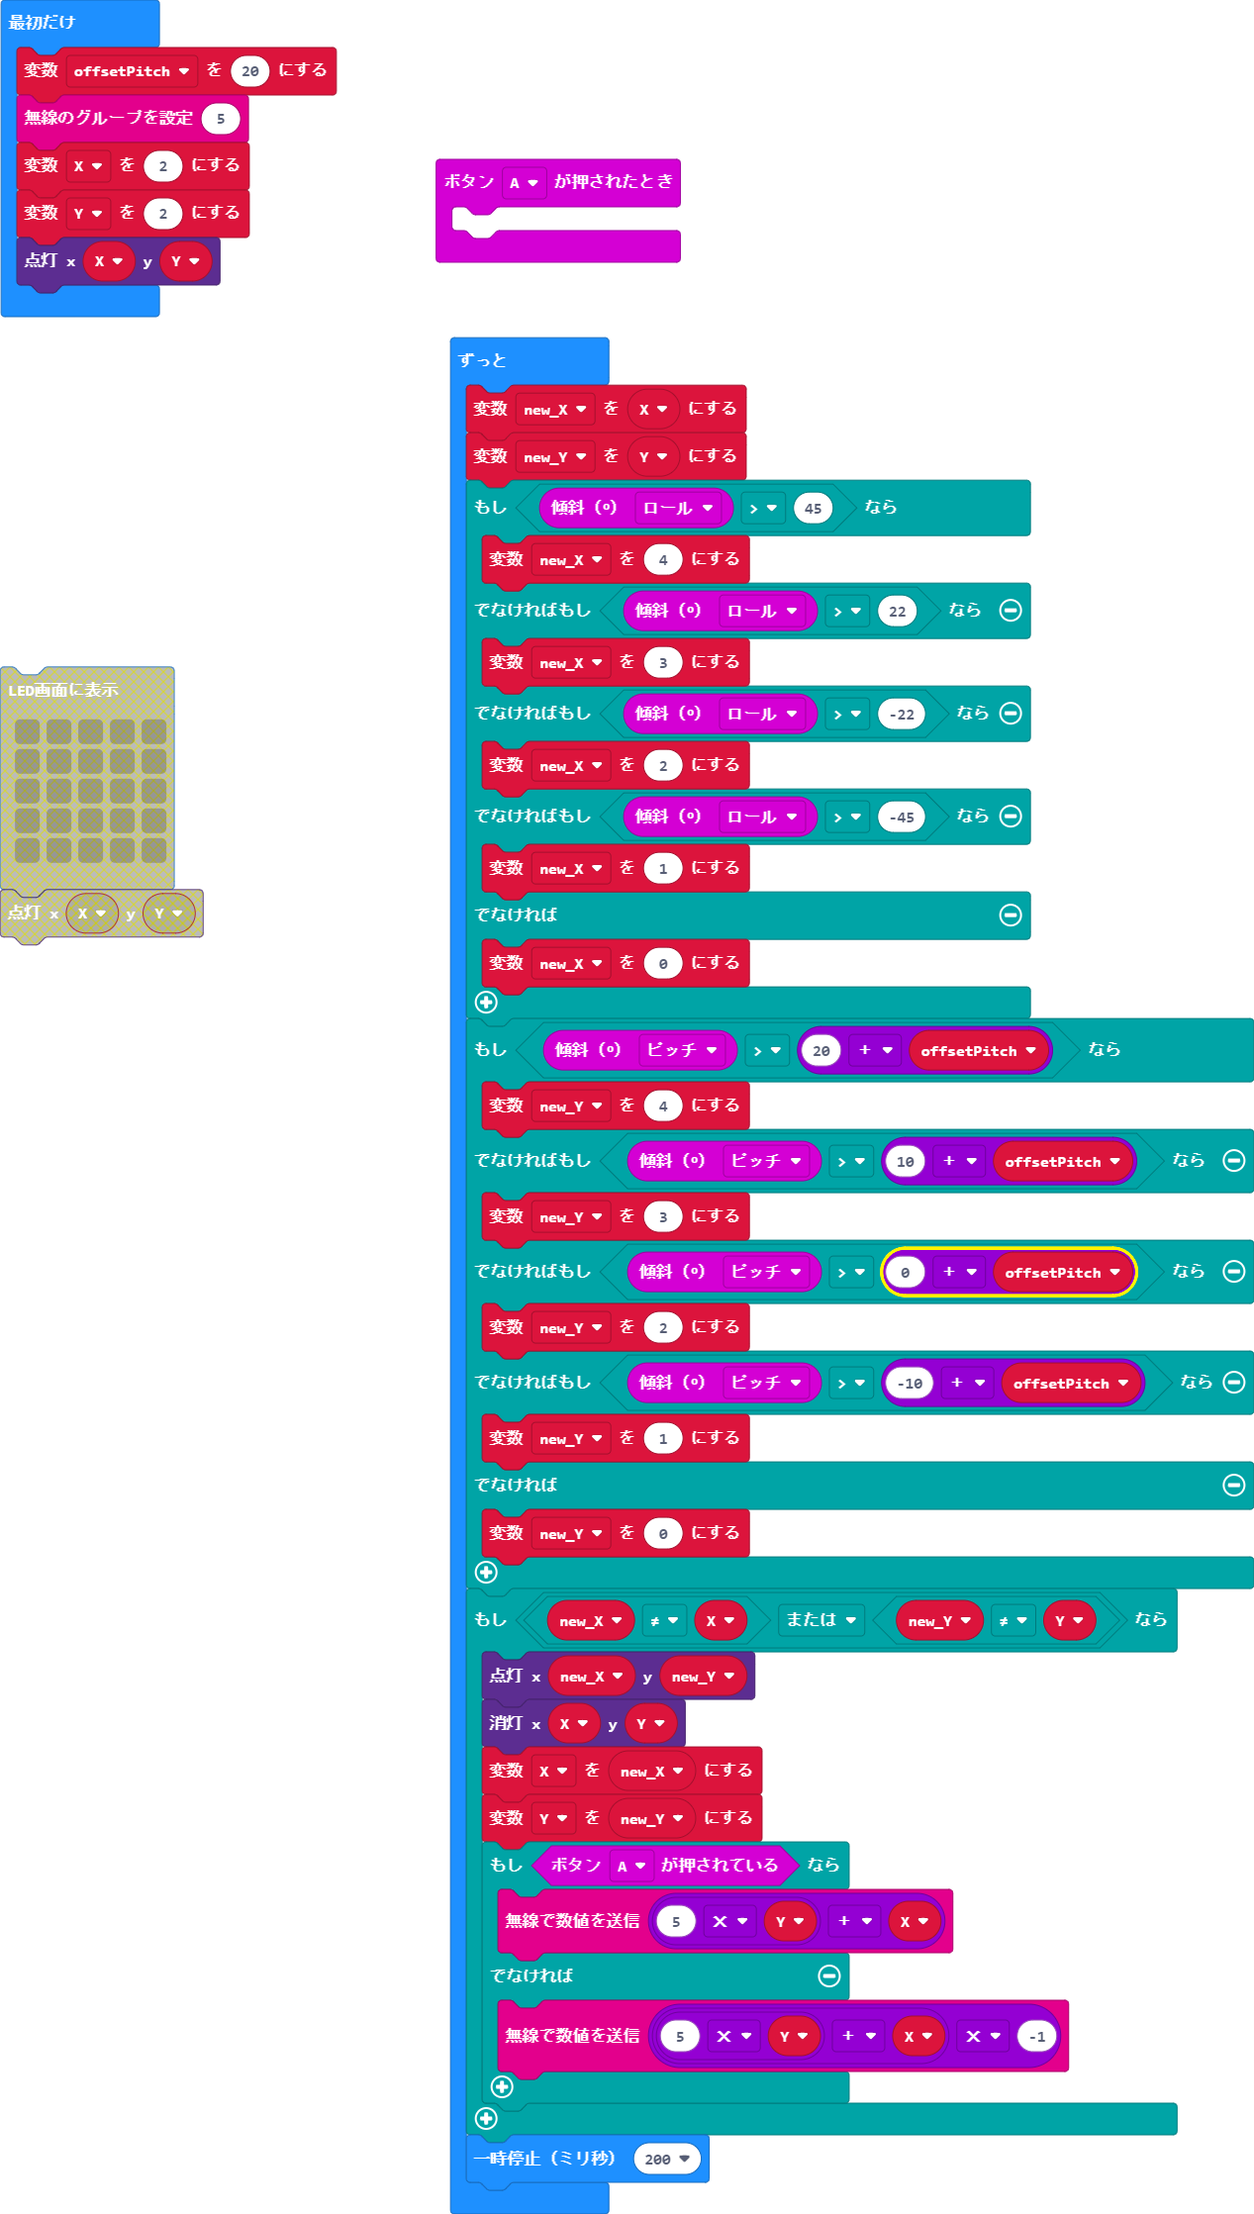
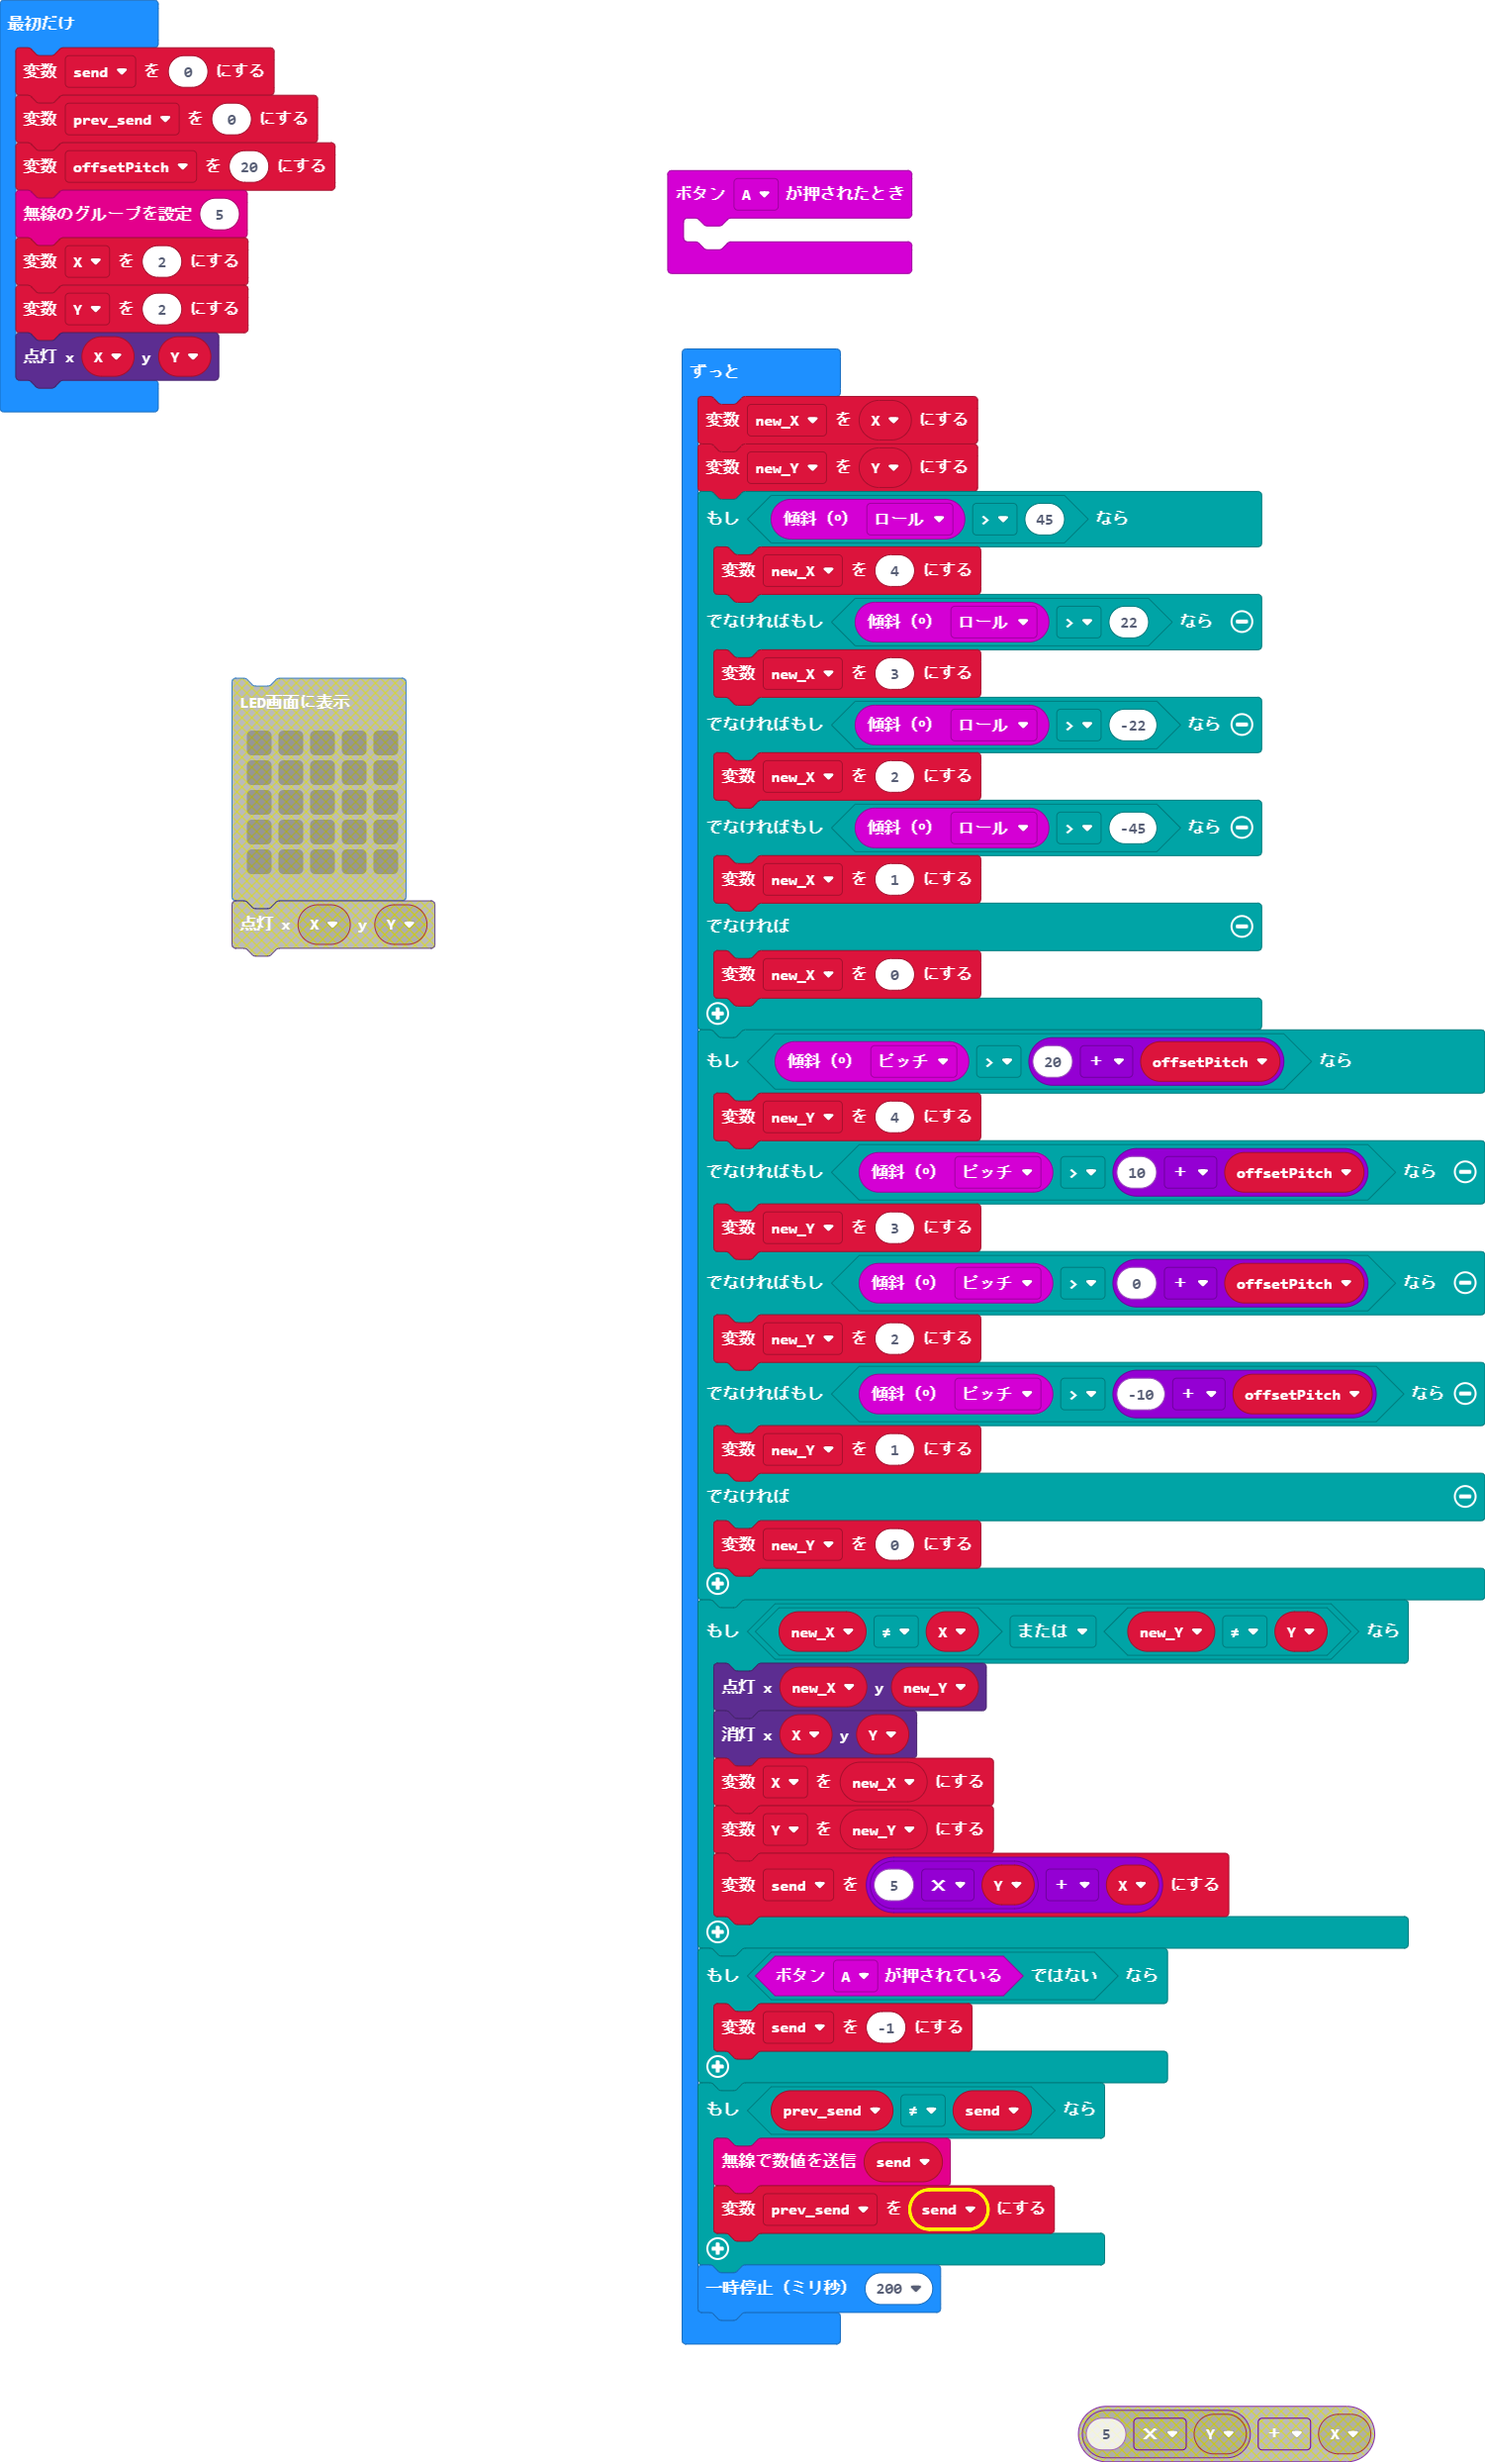
更新 main.blocks, main.ts

diff --git a/main.ts b/main.ts
@@ -3,6 +3,8 @@ input.onButtonPressed(Button.A, function () {
 })
 let new_Y = 0
 let new_X = 0
+let send = 0
+let prev_send = 0
 let offsetPitch = 20
 radio.setGroup(5)
 let X = 2
@@ -38,11 +40,14 @@ basic.forever(function () {
         led.unplot(X, Y)
         X = new_X
         Y = new_Y
-        if (input.buttonIsPressed(Button.A)) {
-            radio.sendNumber(5 * Y + X)
-        } else {
-            radio.sendNumber((5 * Y + X) * -1)
-        }
+        send = 5 * Y + X
+    }
+    if (!(input.buttonIsPressed(Button.A))) {
+        send = -1
+    }
+    if (prev_send != send) {
+        radio.sendNumber(send)
+        prev_send = send
     }
     basic.pause(200)
 })
